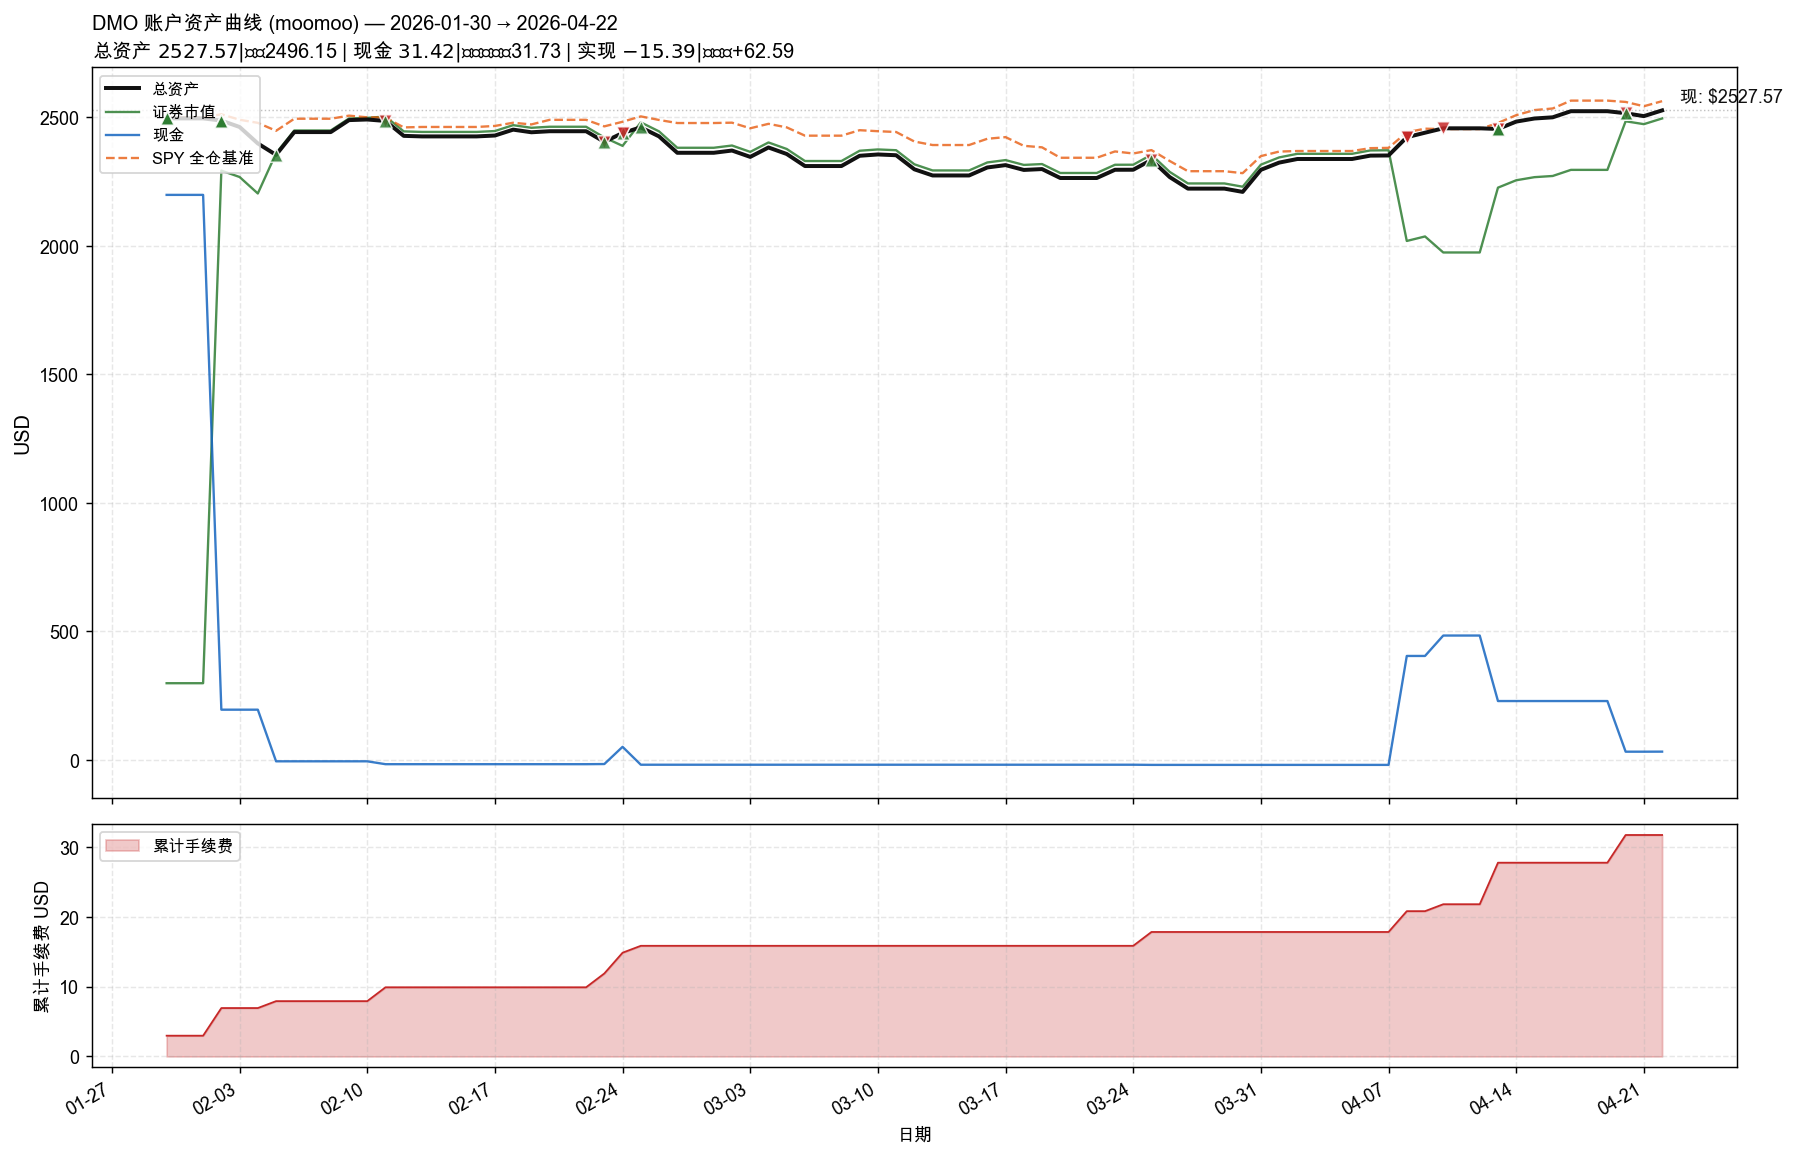
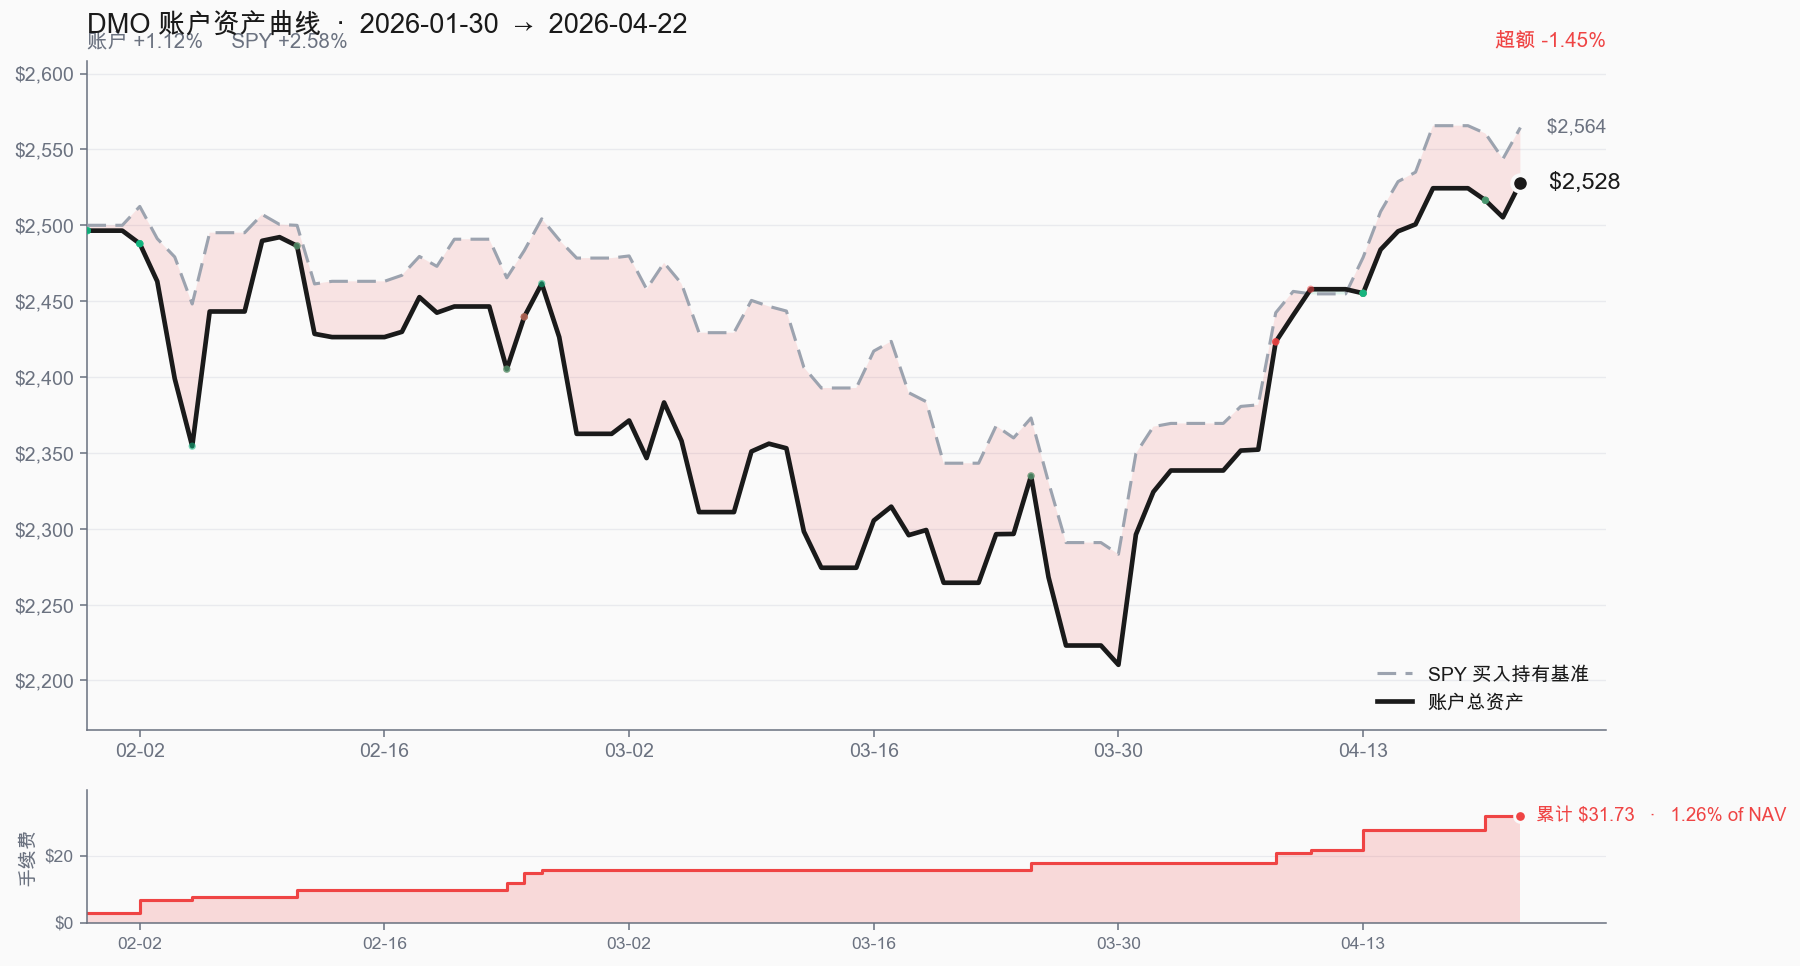
design: redesign portfolio chart — minimal NAV vs SPY + clean fee subplot
Removed cash and securities_value lines (account is single-purpose, decomposition adds noise). Chart now focuses on one comparison that matters: account NAV vs SPY buy-hold benchmark.

Main panel:
- Total assets (bold ink black, 2.4px) as hero
- SPY benchmark (muted gray, dashed)
- Alpha shading between them: green when outperforming, red when lagging
- Buy/sell events as tiny colored dots (12px, low opacity) — show activity density without competing with NAV line
- Dual endpoint labels: account + benchmark side-by-side at right edge
- Subtitle split: left muted '账户 +X% SPY +Y%', right colored '超额 +/-Z%'
- Auto y-range tightening (previously distorted by cash dips)
- Hidden top/right spines, subtle muted gray grid, $-formatted axis

Fee subplot:
- Stepped filled area (each trade = one visible step) replaces messy line
- Endpoint dot + inline annotation: '累计 $31.73 · 1.26% of NAV'
- Cleaner y-axis with no legend (annotation is self-documenting)

Palette: ink/muted/positive-green/negative-red consistent with modern financial UIs (think Robinhood/Koyfin aesthetic).

diff --git a/scripts/track_portfolio.py b/scripts/track_portfolio.py
@@ -221,69 +221,188 @@ def build_spy_benchmark(tx: pd.DataFrame, prices: pd.DataFrame) -> pd.DataFrame:
 
 
 def plot_chart(valuation: pd.DataFrame, spy_bench: pd.DataFrame, tx: pd.DataFrame, out_paths: list[Path]):
-    """生成 4 条线 + 事件标注 + benchmark 的折线图。"""
-    fig, (ax_main, ax_fees) = plt.subplots(
-        2, 1, figsize=(14, 9), sharex=True, gridspec_kw={"height_ratios": [3, 1]}
-    )
+    """精简设计：总资产 vs SPY 基准 + alpha 填色；手续费横向甘特风格独立面板。"""
+    # 现代化调色 + 字号
+    BG = "#fafafa"
+    INK = "#1a1a1a"
+    MUTED = "#6b7280"
+    GRID = "#e5e7eb"
+    POS = "#10b981"   # 绿（跑赢）
+    NEG = "#ef4444"   # 红（跑输 / 手续费）
+    BENCH = "#9ca3af" # 灰（基准）
+
+    fig = plt.figure(figsize=(14, 8), facecolor=BG)
+    gs = fig.add_gridspec(2, 1, height_ratios=[5, 1], hspace=0.15)
+    ax_main = fig.add_subplot(gs[0], facecolor=BG)
+    ax_fees = fig.add_subplot(gs[1], sharex=ax_main, facecolor=BG)
+
     dates = pd.to_datetime(valuation["date"])
+    total = valuation["total_assets"].values
 
-    # 主图 —— 资产曲线
-    ax_main.plot(dates, valuation["total_assets"], label="总资产", color="#111", linewidth=2.2, zorder=5)
-    ax_main.plot(dates, valuation["securities_value"], label="证券市值", color="#2e7d32", linewidth=1.3, alpha=0.85)
-    ax_main.plot(dates, valuation["cash"], label="现金", color="#1565c0", linewidth=1.3, alpha=0.85)
-
+    # ---------------- 主图 ----------------
+    # SPY 基准（用日期对齐）
     if not spy_bench.empty:
         bench_dates = pd.to_datetime(spy_bench["date"])
-        ax_main.plot(bench_dates, spy_bench["spy_benchmark"], label="SPY 全仓基准", color="#e65100",
-                     linewidth=1.3, linestyle="--", alpha=0.75)
+        bench_values = spy_bench["spy_benchmark"].values
 
-    # 事件标注（买卖）
+        # 用共同时间轴对齐两条曲线（取交集以画 alpha 填色）
+        bench_series = pd.Series(bench_values, index=bench_dates)
+        total_series = pd.Series(total, index=dates)
+        aligned = pd.concat([total_series.rename("total"), bench_series.rename("bench")], axis=1).ffill().dropna()
+
+        # Alpha 填色：total > bench 绿色，<  bench 红色
+        ax_main.fill_between(
+            aligned.index, aligned["total"], aligned["bench"],
+            where=aligned["total"] >= aligned["bench"],
+            interpolate=True, color=POS, alpha=0.12, linewidth=0,
+        )
+        ax_main.fill_between(
+            aligned.index, aligned["total"], aligned["bench"],
+            where=aligned["total"] < aligned["bench"],
+            interpolate=True, color=NEG, alpha=0.12, linewidth=0,
+        )
+
+        ax_main.plot(
+            bench_dates, bench_values, color=BENCH, linewidth=1.6,
+            linestyle=(0, (6, 3)), label="SPY 买入持有基准", zorder=3,
+        )
+
+    # 主曲线：总资产
+    ax_main.plot(dates, total, color=INK, linewidth=2.4, label="账户总资产", zorder=5)
+
+    # 买卖事件：极简圆点（不喧宾夺主）
     event_tx = tx[tx["action"].isin(["BUY", "SELL"])]
     for _, row in event_tx.iterrows():
         d = row["date"]
-        marker = "^" if row["action"] == "BUY" else "v"
-        color = "#2e7d32" if row["action"] == "BUY" else "#c62828"
         val_on_day = valuation[pd.to_datetime(valuation["date"]) == d]
-        if not val_on_day.empty:
-            y = val_on_day["total_assets"].values[0]
-            ax_main.scatter(d, y, marker=marker, color=color, s=55, zorder=10, alpha=0.85,
-                            edgecolors="white", linewidths=0.8)
+        if val_on_day.empty:
+            continue
+        y = val_on_day["total_assets"].values[0]
+        color = POS if row["action"] == "BUY" else NEG
+        ax_main.scatter(d, y, s=14, color=color, alpha=0.55, zorder=7, edgecolors="none")
 
+    # 端点标注
     latest = valuation.iloc[-1]
-    ax_main.axhline(latest["total_assets"], color="#999", linestyle=":", linewidth=0.8, alpha=0.6)
+    last_date = dates.iloc[-1]
+    ax_main.scatter([last_date], [latest["total_assets"]], s=72, color=INK, zorder=10, edgecolors=BG, linewidths=2)
     ax_main.annotate(
-        f"现: ${latest['total_assets']:.2f}",
-        xy=(dates.iloc[-1], latest["total_assets"]),
-        xytext=(10, 5), textcoords="offset points",
-        fontsize=10, fontweight="bold", color="#111",
+        f"  ${latest['total_assets']:,.0f}",
+        xy=(last_date, latest["total_assets"]),
+        xytext=(8, 0), textcoords="offset points",
+        fontsize=12, fontweight="bold", color=INK,
+        ha="left", va="center",
     )
+    if not spy_bench.empty:
+        bench_last = spy_bench.iloc[-1]["spy_benchmark"]
+        ax_main.annotate(
+            f"  ${bench_last:,.0f}",
+            xy=(pd.to_datetime(spy_bench.iloc[-1]["date"]), bench_last),
+            xytext=(8, 0), textcoords="offset points",
+            fontsize=10, color=MUTED, ha="left", va="center",
+        )
 
-    ax_main.set_ylabel("USD", fontsize=11)
+    # 计算 alpha
+    if not spy_bench.empty:
+        initial = spy_bench.iloc[0]["spy_benchmark"]
+        acct_return_pct = (latest["total_assets"] / initial - 1) * 100
+        bench_return_pct = (bench_last / initial - 1) * 100
+        alpha = acct_return_pct - bench_return_pct
+        alpha_txt = f"{alpha:+.2f}%"
+        alpha_color = POS if alpha >= 0 else NEG
+    else:
+        acct_return_pct = bench_return_pct = 0
+        alpha_txt, alpha_color = "n/a", MUTED
+
+    # 标题 —— 简洁，只写关键数字
+    start_date = dates.iloc[0].date()
+    end_date = last_date.date()
     ax_main.set_title(
-        f"DMO 账户资产曲线 (moomoo) — {dates.iloc[0].date()} → {dates.iloc[-1].date()}\n"
-        f"总资产 ${latest['total_assets']:.2f} | 证券 ${latest['securities_value']:.2f} | "
-        f"现金 ${latest['cash']:.2f} | 已付手续费 ${latest['cum_fees']:.2f} | "
-        f"实现 ${latest['cum_realized_pnl']:+.2f} | 未实现 ${latest['unrealized_pnl']:+.2f}",
-        fontsize=11, loc="left",
+        f"DMO 账户资产曲线  ·  {start_date}  →  {end_date}",
+        fontsize=14, fontweight="bold", color=INK, loc="left", pad=14,
     )
-    ax_main.legend(loc="upper left", frameon=True, fontsize=9)
-    ax_main.grid(True, linestyle="--", alpha=0.3)
+    # 副标题：左边灰色自有/基准回报，右边彩色超额
+    ax_main.text(
+        0.0, 1.015,
+        f"账户 {acct_return_pct:+.2f}%     SPY {bench_return_pct:+.2f}%",
+        transform=ax_main.transAxes,
+        fontsize=10.5, color=MUTED, va="bottom",
+    )
+    ax_main.text(
+        1.0, 1.015,
+        f"超额 {alpha_txt}",
+        transform=ax_main.transAxes,
+        fontsize=10.5, color=alpha_color, fontweight="bold", va="bottom", ha="right",
+    )
 
-    # 副图 —— 累计手续费
-    ax_fees.fill_between(dates, 0, valuation["cum_fees"], color="#c62828", alpha=0.25, label="累计手续费")
-    ax_fees.plot(dates, valuation["cum_fees"], color="#c62828", linewidth=1.0)
-    ax_fees.set_ylabel("累计手续费 USD", fontsize=10)
-    ax_fees.set_xlabel("日期", fontsize=10)
-    ax_fees.grid(True, linestyle="--", alpha=0.3)
-    ax_fees.legend(loc="upper left", frameon=True, fontsize=9)
+    # 美化 spines
+    for sp in ["top", "right"]:
+        ax_main.spines[sp].set_visible(False)
+    for sp in ["left", "bottom"]:
+        ax_main.spines[sp].set_color(MUTED)
+        ax_main.spines[sp].set_linewidth(0.8)
 
-    ax_fees.xaxis.set_major_locator(mdates.WeekdayLocator(interval=1))
+    ax_main.tick_params(colors=MUTED, labelsize=10)
+    ax_main.yaxis.set_major_formatter(plt.FuncFormatter(lambda x, _: f"${x:,.0f}"))
+    ax_main.grid(True, axis="y", color=GRID, linestyle="-", linewidth=0.7, alpha=0.8)
+    ax_main.set_axisbelow(True)
+
+    # 只在合适 y 范围内显示（裁掉早期 cash dip 无关区间 — 因为不再画 cash 线）
+    y_min = min(total.min(), spy_bench["spy_benchmark"].min() if not spy_bench.empty else total.min())
+    y_max = max(total.max(), spy_bench["spy_benchmark"].max() if not spy_bench.empty else total.max())
+    y_pad = (y_max - y_min) * 0.12
+    ax_main.set_ylim(y_min - y_pad, y_max + y_pad)
+
+    ax_main.legend(
+        loc="lower right", frameon=False, fontsize=10,
+        labelcolor=INK, handlelength=1.8,
+    )
+
+    # ---------------- 副图：手续费累计阶梯 ----------------
+    # 设计：阶梯式填充区域 + 端点数字；每次交易即看到一个"台阶"
+    ax_fees.fill_between(
+        dates, 0, valuation["cum_fees"],
+        step="post", color=NEG, alpha=0.18, linewidth=0,
+    )
+    ax_fees.step(
+        dates, valuation["cum_fees"],
+        where="post", color=NEG, linewidth=1.6,
+    )
+    # 端点点 + 标注
+    cum_fee_final = latest["cum_fees"]
+    pct_of_assets = cum_fee_final / latest["total_assets"] * 100
+    ax_fees.scatter([last_date], [cum_fee_final], s=36, color=NEG, zorder=5, edgecolors=BG, linewidths=1.5)
+    ax_fees.annotate(
+        f"累计 ${cum_fee_final:.2f}   ·   {pct_of_assets:.2f}% of NAV",
+        xy=(last_date, cum_fee_final),
+        xytext=(8, 0), textcoords="offset points",
+        fontsize=9.5, color=NEG, fontweight="bold", va="center",
+    )
+
+    ax_fees.set_ylim(0, max(valuation["cum_fees"].max() * 1.25, 1))
+    for sp in ["top", "right"]:
+        ax_fees.spines[sp].set_visible(False)
+    for sp in ["left", "bottom"]:
+        ax_fees.spines[sp].set_color(MUTED)
+        ax_fees.spines[sp].set_linewidth(0.8)
+    ax_fees.tick_params(colors=MUTED, labelsize=9)
+    ax_fees.yaxis.set_major_formatter(plt.FuncFormatter(lambda x, _: f"${x:.0f}"))
+    ax_fees.set_ylabel("手续费", fontsize=10, color=MUTED)
+    ax_fees.grid(True, axis="y", color=GRID, linestyle="-", linewidth=0.6, alpha=0.8)
+    ax_fees.set_axisbelow(True)
+
+    # X 轴
+    ax_fees.xaxis.set_major_locator(mdates.WeekdayLocator(byweekday=mdates.MO, interval=2))
     ax_fees.xaxis.set_major_formatter(mdates.DateFormatter("%m-%d"))
-    fig.autofmt_xdate(rotation=30)
+    for lbl in ax_fees.get_xticklabels():
+        lbl.set_rotation(0)
+
+    # 右边留空给端点标注
+    x_pad = (dates.iloc[-1] - dates.iloc[0]).days * 0.06
+    ax_fees.set_xlim(dates.iloc[0], dates.iloc[-1] + pd.Timedelta(days=x_pad))
 
     plt.tight_layout()
     for path in out_paths:
-        plt.savefig(path, dpi=130, bbox_inches="tight")
+        plt.savefig(path, dpi=140, bbox_inches="tight", facecolor=BG)
     plt.close(fig)
 
 
